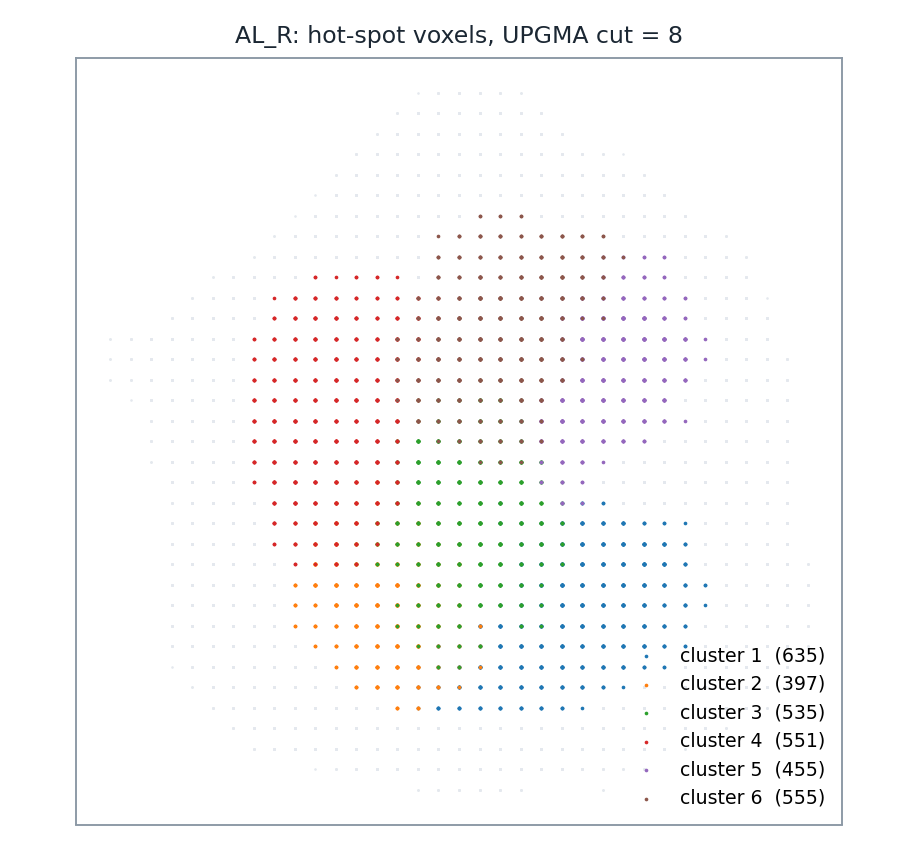
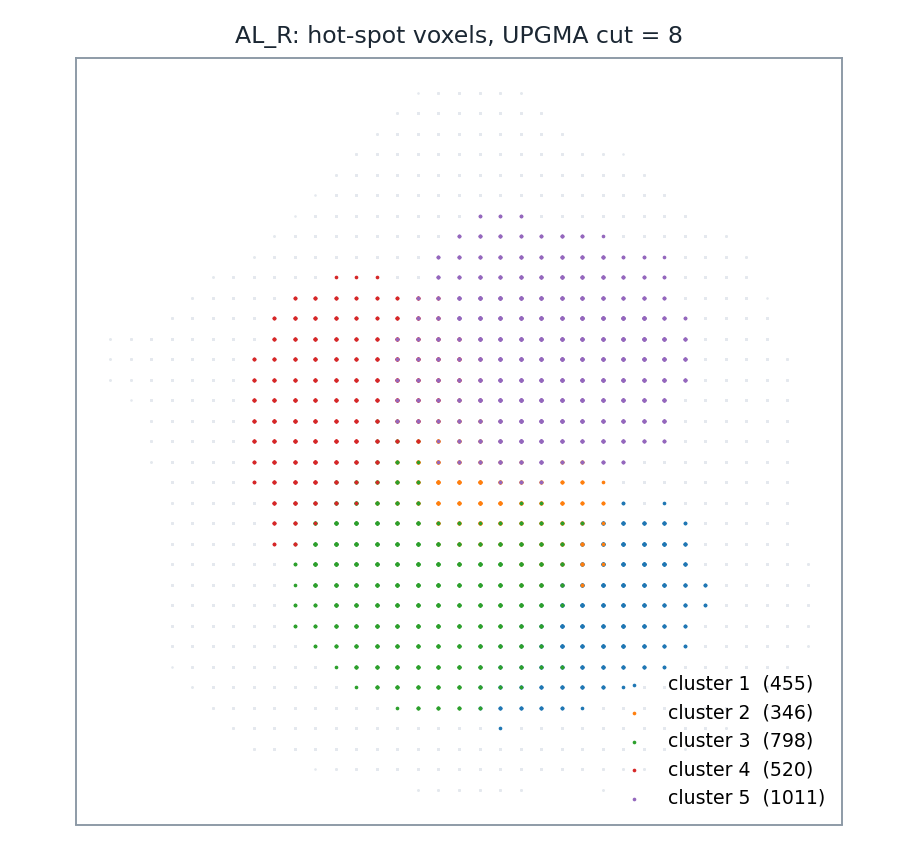
PART 2 的密度場改用相異神經元數重算，並把已解決的問題標到頁面上
一、定義統一。make_part2_figures.py 的 field_of() 加上去重（同一顆神經元
   在同一個分析格只算一次），與 part5/lpu_lib.py 的 density_field() 一致。
   六張 p2-*.png 全部重產，seed_check.py 沿用它。PART 2 到 PART 5 現在用的
   是同一個 v(r)，數字可以逐項對照。

二、PART 2 整頁重算：五數綜合 0.6/36.4/64.9/94.7/142.8、熱點 3,130、
   相異距離值 557、高度 8 分成五群（346/455/520/798/1,011）、規則 ② 到
   高度 7 以後才不再刷人、單一連結在 h=1.0 就併成一塊、種子表 4.5%/23.6%。
   與 part4/out、part5/out 逐項相同。切割高度 14–20 的平台
   1／1–2／2／1–2／2–3／2 一個都沒變——換定義只動絕對值，不動判定。

三、Spearman 從 0.993 改成 0.998。舊數字算的是未平滑的計數場，而實際使用的
   v(r) 是 3×3×3 平滑後的場；兩處都補上「比的是哪個量、哪個集合」。

四、已解決的不要只留「抓到問題」。新增 .fixed 綠框：PART 4 成績單第 4 列改成
   「抓到問題（已修正）」、〈發現二〉標題加「（已修正）」並寫明改了哪個函式、
   指令 4 補上兩頁都已更正、指令 1 的軸序警語補上「指令 14 那張全腦圖就是
   照這張表畫的」。

五、三處過期的交叉引用：PART 3 指令 8 正文寫 35.8% 但同頁驗收表是 23.6%；
   PART 1 寫「那正是 PART 3 要做的事」而連結指向 python-lpu.html；
   PART 2 頁尾仍寫「PART 5 是不靠 AI 自己寫程式做一次」。

Claude-Session: https://claude.ai/code/session_01RAcUKXRmkFUmNphKnPaYea

diff --git a/how-to-draw-lpu.html b/how-to-draw-lpu.html
@@ -342,7 +342,8 @@
     <p>· 正文的七步驟條列第 (1) 步：<i>calculating the number of <b>counts</b> passing through a voxel by <b>populations of LNs</b></i>（數「LN 族群穿過該體素的次數」）</p>
     <p>· 補充材料〈Defining an LPU〉：<i>the number of <b>LN fibers</b> passing through the voxel</i>（穿過該體素的<b>纖維條數</b>）</p>
     <p>· 圖 S5D(b) 的圖說：<i>the number of <b>repetitive registrations</b> of every single voxel</i>（該體素被<b>重複註冊</b>的次數）</p>
-    <p style="margin-top:8px"><b>後兩者不是同一件事。</b>「一顆神經元的三條分枝都穿過同一個體素」在「纖維條數」算 3、在「重複註冊次數」算 1。<b>正文那句沒有裁決</b>——它只說「數次數」，沒說數的是纖維還是神經元。而從二值化的體素影像，你只做得到「重複註冊次數」那一個。</p><p><b>本頁那張 AL_R 密度圖數的是第三個量：每一筆（體素, 神經元）紀錄。</b>D06 的骨架體素邊長只有分析體素的四分之一，所以同一顆神經元會在同一個分析體素裡留下好幾筆——平均 <b>1.44 筆</b>——而那張圖把每一筆都加了一次。它比「重複註冊次數」一致地大一點：兩者的排序相關是 <b>0.993</b>、熱點集合重疊 <b>94%</b>，而下面〈STEP 3〉那個切割高度 14–20 的平台，兩種算法給出的值<b>完全相同</b>。<a href="agent-run.html">PART 4</a> 用的是「重複註冊次數」，所以那一頁的絕對數值與本頁不同（v(r) 最大值 206.6 對 142.8），但平台上的結論相同。</p>
+    <p style="margin-top:8px"><b>後兩者不是同一件事。</b>「一顆神經元的三條分枝都穿過同一個體素」在「纖維條數」算 3、在「重複註冊次數」算 1。<b>正文那句沒有裁決</b>——它只說「數次數」，沒說數的是纖維還是神經元。而從二值化的體素影像，你只做得到「重複註冊次數」那一個。</p><p><b>本頁採用的就是它：同一顆神經元在同一個分析體素裡，不論留下幾筆紀錄都只算一次。</b>換句話說，v(r) 是「有幾顆<b>不同的</b> LN 佔到這一格」。右觸角葉的 v(r) 因此最大 <b>142.8</b>、平均 <b>65.7</b>。<a href="agent-prompts.html">PART 3</a> 的指令、<a href="agent-run.html">PART 4</a> 的實跑、<a href="python-lpu.html">PART 5</a> 的程式（<code>lpu_lib.py</code> 的 <code>density_field()</code>）用的都是同一個定義，所以<b>四頁的數字可以逐項對照</b>。</p>
+    <p style="margin-top:8px"><b>換成另一種算法會差多少，量過了。</b>如果改成「每一筆（體素, 神經元）紀錄都加 1」——D06 的骨架體素邊長只有分析體素的四分之一，同一顆神經元平均會在同一格留下 <b>1.44 筆</b>——v(r) 的最大值會從 142.8 變成 206.6。但在右觸角葉區內 12,511 個分析體素上，兩者的<b>排序相關是 0.998</b>、<b>熱點集合重疊 94%</b>（交集除以聯集），而下面〈STEP 3〉那個切割高度 14–20 的平台，兩種算法給出的值<b>完全相同</b>。<b>絕對值會變，判定不會。</b></p>
   </div>
 
   <h2 id="s2"><span class="pt">STEP 2</span>取上四分位，留下熱點</h2>
@@ -357,15 +358,15 @@
   <div class="plain"><b>白話。</b>像把一張地形圖只保留最高的四分之一——低窪處全部抹平，剩下的山頭才是後面要分群的對象。
     <p style="margin-top:6px"><b>上四分位</b>就是把所有數字由小排到大之後，位在 <b>75%</b> 那個位置的值。有些書叫它「第三四分位」或 <code>Q3</code>，是同一個東西；<b>本頁一律用「上四分位」</b>，因為論文用的是 <i>upper quartile</i>（<code>Q<sub>U</sub></code>）。</p></div>
 
-  <p><b>論文沒有說明為什麼選四分位</b>，不過用四分位而不是一個固定的數字，效果是看得見的：門檻是<b>每個腦區各自算的</b>，所以不論哪一區、LN 有多少顆，都恰好留下自己最密的四分之一。我們在六個腦區上實測，留下的比例是 25.0%–25.2%——這是四分位的定義使然，不是巧合。</p>
+  <p><b>論文沒有說明為什麼選四分位</b>，不過用四分位而不是一個固定的數字，效果是看得見的：門檻是<b>每個腦區各自算的</b>，所以不論哪一區、LN 有多少顆，都恰好留下自己最密的四分之一。我們在六個腦區上實測，留下的比例是 25.0%–25.1%——這是四分位的定義使然，不是巧合。</p>
 
   <div class="note">
     <b>但這也是它的代價。</b>因為比例是固定的，<b>「這個腦區到底夠不夠密」這件事，在這一步就被抹掉了</b>。一個 LN 很少的腦區，照樣會被留下 25% 的體素當熱點，然後照樣進入 STEP 3 分群。真正把它擋下來的是後面的 c 值與神經束，不是這一步。
   </div>
 
   <figure class="fig">
-    <img src="assets/p2-fivenum.png" alt="直方圖：右側觸角葉內所有體素的密度值分布，標出下四分位 51.4、中位數 92.9、上四分位 136.5，上四分位右側區域以紅色淡底標示為熱點。">
-    <figcaption><b>右側觸角葉的真實分布。</b>五數綜合是 0.6 ／ 51.4 ／ 92.9 ／ <b>136.5</b> ／ 206.6。紅線是上四分位 <code>Q<sub>U</sub></code> ＝ 136.5，右邊那塊淡紅色區域就是熱點集合 Z。
+    <img src="assets/p2-fivenum.png" alt="直方圖：右側觸角葉內所有體素的密度值分布，標出下四分位 36.4、中位數 64.9、上四分位 94.7，上四分位右側區域以紅色淡底標示為熱點。">
+    <figcaption><b>右側觸角葉的真實分布。</b>五數綜合是 0.6 ／ 36.4 ／ 64.9 ／ <b>94.7</b> ／ 142.8。紅線是上四分位 <code>Q<sub>U</sub></code> ＝ 94.7，右邊那塊淡紅色區域就是熱點集合 Z。
     <span class="figsrc">由 <code>scripts/make_part2_figures.py</code> 算出。</span></figcaption>
   </figure>
 
@@ -391,7 +392,7 @@
   </div>
 
   <div class="note">
-    <b>規則 ② 的分母是整個 neuropil，不是熱點。</b>這一點很容易寫錯。以右觸角葉為例：腦區內共 12,511 個分析體素，1% 就是 <b>125 個</b>；而熱點（STEP 2 留下的那 25%）只有 3,128 個。<b>所以門檻雖然寫成「1%」，實際上是要求一群佔掉熱點的 4%。</b>把分母誤寫成熱點數，門檻會鬆四倍。
+    <b>規則 ② 的分母是整個 neuropil，不是熱點。</b>這一點很容易寫錯。以右觸角葉為例：腦區內共 12,511 個分析體素，1% 就是 <b>125 個</b>；而熱點（STEP 2 留下的那 25%）只有 3,130 個。<b>所以門檻雖然寫成「1%」，實際上是要求一群佔掉熱點的 4%。</b>把分母誤寫成熱點數，門檻會鬆四倍。
   </div>
 
   <div class="callout">
@@ -405,13 +406,13 @@
 
   <div class="tblwrap"><table>
     <tr><th>右觸角葉的熱點</th><th></th></tr>
-    <tr><td>體素數</td><td>3,128</td></tr>
-    <tr><td>配對數（距離矩陣的長度）</td><td>4,890,628</td></tr>
-    <tr><td><b>相異的距離值</b></td><td><b>573</b></td></tr>
-    <tr><td>平均每個距離值被幾對共用</td><td>8,535</td></tr>
+    <tr><td>體素數</td><td>3,130</td></tr>
+    <tr><td>配對數（距離矩陣的長度）</td><td>4,896,885</td></tr>
+    <tr><td><b>相異的距離值</b></td><td><b>557</b></td></tr>
+    <tr><td>平均每個距離值被幾對共用</td><td>8,792</td></tr>
   </table></div>
 
-  <div class="plain"><b>白話。</b>489 萬對體素，只有 573 種不同的距離。<b>平均每一種距離都有八千多對並列。</b>光是「距離剛好等於 1」（正上下左右相鄰）的就有 8,339 對。
+  <div class="plain"><b>白話。</b>490 萬對體素，只有 557 種不同的距離。<b>平均每一種距離都有八千多對並列。</b>光是「距離剛好等於 1」（正上下左右相鄰）的就有 8,363 對。
     <p style="margin-top:6px"><b>先記著這件事。</b>分群演算法每一步都要挑「最近的一對」，而這裡有成千上萬對並列第一——下面〈<b>平手的時候，UPGMA 挑誰？</b>〉會看到它造成什麼後果。</p></div>
 
   <p>再用 <b>UPGMA</b>（unweighted pair group method with arithmetic mean，中譯「不加權平均連結法」）把體素分群（<b>規則 ①</b>），再把體素數不到該 neuropil 總體素 1% 的群丟掉（<b>規則 ②</b>），剩下的才算候選 LPU。</p>
@@ -420,14 +421,14 @@
 
   <div class="note">
     <b>「高度」是距離，不是次數。</b>樹的高度軸量的是「這兩群<b>當時的距離</b>」——每一次合併都畫在它發生時的那個距離上。所以<b>剪在高度 8</b> 的意思是：<b>把所有「距離 ≤ 8 時才發生」的合併都保留，比 8 高的合併全部不做。</b>
-    <p style="margin-top:8px">它<b>不是</b>「合併 8 次」。以右觸角葉為例，3,128 個熱點體素要全部併完需要 <b>3,127 次</b>合併；剪在高度 8，實際上已經做掉 <b>3,122 次</b>，只剩下 6 群。而第 8 次合併發生在高度 <b>1.00</b>——離 8 還很遠。</p>
+    <p style="margin-top:8px">它<b>不是</b>「合併 8 次」。以右觸角葉為例，3,130 個熱點體素要全部併完需要 <b>3,129 次</b>合併；剪在高度 8，實際上已經做掉 <b>3,125 次</b>，只剩下 5 群。而第 8 次合併發生在高度 <b>1.00</b>——離 8 還很遠。</p>
     <div class="tblwrap"><table>
       <tr><th>切割高度</th><th>已經做掉的合併次數</th><th>剩下的群數</th></tr>
-      <tr><td>1</td><td>1,509</td><td>1,619</td></tr>
-      <tr><td>2</td><td>2,776</td><td>352</td></tr>
-      <tr><td>4</td><td>3,078</td><td>50</td></tr>
-      <tr><td><b>8</b></td><td><b>3,122</b></td><td><b>6</b></td></tr>
-      <tr><td>14</td><td>3,127<span style="color:var(--faint)">（全部）</span></td><td>1</td></tr>
+      <tr><td>1</td><td>1,517</td><td>1,613</td></tr>
+      <tr><td>2</td><td>2,770</td><td>360</td></tr>
+      <tr><td>4</td><td>3,080</td><td>50</td></tr>
+      <tr><td><b>8</b></td><td><b>3,125</b></td><td><b>5</b></td></tr>
+      <tr><td>14</td><td>3,129<span style="color:var(--faint)">（全部）</span></td><td>1</td></tr>
     </table></div>
     <p style="margin-top:8px">高度的單位就是體素——這裡是<b>分析體素</b>（4×4×4 個原本的體素併成一個）。所以「高度 8」大致是「兩群的平均距離在 8 個分析體素以內」。</p>
   </div>
@@ -438,22 +439,22 @@
 
   <div class="tblwrap"><table>
     <tr><th>切割高度</th><th>規則 ① 剪出的群數</th><th>規則 ② 通過的群數<br><span style="font-weight:400;color:var(--faint)">（＝候選 LPU）</span></th><th>最大的一群有多少體素<br><span style="font-weight:400;color:var(--faint)">（門檻是 125）</span></th></tr>
-    <tr><td><b>4</b></td><td><b>50</b></td><td><b>0</b></td><td>116　<span style="color:var(--red)">← 連最大的都不到 125</span></td></tr>
-    <tr><td>5</td><td>26</td><td>12</td><td>195</td></tr>
-    <tr><td>6</td><td>12</td><td>12</td><td>397</td></tr>
-    <tr><td>8</td><td>6</td><td>6</td><td>635</td></tr>
-    <tr><td>10</td><td>3</td><td>3</td><td>1,567</td></tr>
-    <tr><td>14</td><td>1</td><td>1</td><td>3,128</td></tr>
+    <tr><td><b>4</b></td><td><b>50</b></td><td><b>0</b></td><td>114　<span style="color:var(--red)">← 連最大的都不到 125</span></td></tr>
+    <tr><td>5</td><td>28</td><td>9</td><td>185</td></tr>
+    <tr><td>6</td><td>16</td><td>14</td><td>299</td></tr>
+    <tr><td>8</td><td>5</td><td>5</td><td>1,011</td></tr>
+    <tr><td>10</td><td>4</td><td>4</td><td>1,144</td></tr>
+    <tr><td>14</td><td>1</td><td>1</td><td>3,130</td></tr>
   </table></div>
 
   <div class="plain">
     <b>看第一列。</b>切割高度 4 的時候，樹其實剪出了 <b>50 群</b>——但每一群都太小，<b>一群都沒過</b>，答案是 0。<b>那個 0 不是「分不出群」，是「分出太多群、每一群都不夠大」。</b>
-    <p style="margin-top:8px">高度 5 是兩條規則同時在起作用的唯一一段：剪出 26 群，只有 12 群過關，被丟掉的體素佔了熱點的 41%。<b>高度 6 以後規則 ② 就不再刷掉任何東西了</b>——群夠大，全部通過，答案完全由規則 ① 決定。</p>
+    <p style="margin-top:8px">高度 5、6 是兩條規則同時在起作用的一段：高度 5 剪出 28 群、只有 9 群過關，被丟掉的體素佔了熱點的 56%；高度 6 剪出 16 群、過 14 群。<b>高度 7 以後規則 ② 就不再刷掉任何東西了</b>——群夠大，全部通過，答案完全由規則 ① 決定。</p>
   </div>
 
   <div class="danger">
     <b>平手的時候，UPGMA 挑誰？</b>它每一步要挑「平均距離最近」的兩群併起來。既然有八千多對並列第一，<b>就得有人決定挑哪一對</b>——而演算法本身沒有規定。<code>scipy</code> 的作法是挑索引最小的那一對，也就是<b>按你把體素餵進去的順序</b>。
-    <p style="margin-top:8px">這不是無關痛癢的細節。<b>把同一批體素打亂順序重跑，答案就變</b>：右觸角葉在切割高度 6，九次打亂給出的是 12、13、13、13、13、14、14、14、16——<b>從 12 到 16 都有</b>。同一份資料、同一個參數，只有列的順序不同。</p>
+    <p style="margin-top:8px">這不是無關痛癢的細節。<b>把同一批體素打亂順序重跑，答案就變</b>：右觸角葉在切割高度 6，九次打亂給出的是 13、13、13、14、14、14、15、15、15——<b>從 13 到 15 都有</b>。同一份資料、同一個參數，只有列的順序不同。</p>
   </div>
 
   <div class="note">
@@ -539,23 +540,22 @@
 
   <h4>那為什麼不乾脆用單一連結</h4>
 
-  <p>因為它在這裡<b>什麼都分不出來</b>。熱點體素排在格點上，彼此正好相鄰（距離 ＝ 1）。只要允許「相鄰就連起來」，<b>3,128 個熱點體素裡有 3,127 個立刻串成一整塊</b>。</p>
+  <p>因為它在這裡<b>什麼都分不出來</b>。熱點體素排在格點上，彼此正好相鄰（距離 ＝ 1）。只要允許「相鄰就連起來」，<b>3,130 個熱點體素立刻全部串成一整塊</b>。</p>
 
   <div class="tblwrap"><table>
     <tr><th>切割高度</th><th>單一連結給出的群數</th></tr>
-    <tr><td>0.9（連相鄰都不算）</td><td>3,128　<span style="color:var(--faint)">← 每個體素自成一群</span></td></tr>
-    <tr><td>1.0</td><td>2</td></tr>
-    <tr><td>1.5 以上</td><td><b>1</b></td></tr>
+    <tr><td>0.9（連相鄰都不算）</td><td>3,130　<span style="color:var(--faint)">← 每個體素自成一群</span></td></tr>
+    <tr><td>1.0 以上</td><td><b>1</b></td></tr>
   </table></div>
 
   <div class="danger">
-    <b>從 3,128 直接掉到 1，中間沒有任何可用的區間。</b>這是單一連結有名的毛病：只要有一串體素把兩塊接起來，那兩塊就被判成同一群——而在密實的體素格點上，這種「橋」到處都是。
+    <b>從 3,130 直接掉到 1，中間沒有任何可用的區間。</b>這是單一連結有名的毛病：只要有一串體素把兩塊接起來，那兩塊就被判成同一群——而在密實的體素格點上，這種「橋」到處都是。
     <p style="margin-top:8px"><b>結論：單一連結可重現，但沒有分辨力；平均連結有分辨力，但答案受順序影響。</b>論文選了後者，所以就得面對前面那個平手問題。</p>
   </div>
 
   <figure class="fig">
-    <img src="assets/p2-clusters.png" alt="散點圖：右側觸角葉的熱點體素在切割高度 8 時被分成六群，各以不同顏色標示，背景灰點是整個腦區的範圍。">
-    <figcaption><b>右側觸角葉的熱點體素，在切割高度 ＝ 8 時分成六群。</b>灰色是整個腦區的範圍，彩色是各群。<b>但這個「六」既取決於切割高度，也取決於體素的排列順序</b>——換一個高度會變，光是把體素打亂重跑，同樣在高度 8 也可能得到 5 或 7 群。
+    <img src="assets/p2-clusters.png" alt="散點圖：右側觸角葉的熱點體素在切割高度 8 時被分成五群，各以不同顏色標示，背景灰點是整個腦區的範圍。">
+    <figcaption><b>右側觸角葉的熱點體素，在切割高度 ＝ 8 時分成五群</b>（346、455、520、798、1,011 個體素）。灰色是整個腦區的範圍，彩色是各群。<b>但這個「五」既取決於切割高度，也取決於體素的排列順序</b>——換一個高度會變，光是把體素打亂重跑，同樣在高度 8 也可能得到 6 或 7 群。
     <span class="figsrc">由 <code>scripts/make_part2_figures.py</code> 算出。</span></figcaption>
   </figure>
 
@@ -566,23 +566,23 @@
   <p>這不是雞蛋裡挑骨頭。我們把六個腦區的切割高度從 4 掃到 25，看每個高度會得到幾個候選 LPU：</p>
 
   <figure class="fig">
-    <img src="assets/p2-cutheight.png" alt="折線圖：六個腦區在不同 UPGMA 切割高度下得到的候選 LPU 數量，每條線是九次打亂體素順序的中位數，外圍淡色帶是最小到最大。切割高度 5 到 6 之間帶最寬，最多相差 6 個；高度 14 以上帶幾乎閉合，22 以上全部給 1。">
-    <figcaption><b>橫軸是切割高度，縱軸是找到的候選 LPU 數。</b>每一個切割高度都把體素順序打亂重跑<b>九次</b>，得到九個答案；<b>實線是把這九個答案排序後取中間那一個</b>（第 5 個），淡色帶是最小到最大。跑九次（奇數）是為了讓中位數一定落在某一次真的跑出來的整數上。剪得太細（高度 4）時，樹其實剪出了幾十群，但沒有一群大得過規則 ② 的 1%，所以四個腦區的答案是 0（扇形體與前腦橋例外）；高度 5–6 衝到十幾個，<b>而且這裡的帶最寬——同一個高度光靠順序就能差 7 個</b>；高度 14 以上帶幾乎閉合；22 以上六個區都給 1，但那只是因為 22 已經高過每一棵樹的根（見下方「整棵樹的高度」那張表）。
+    <img src="assets/p2-cutheight.png" alt="折線圖：六個腦區在不同 UPGMA 切割高度下得到的候選 LPU 數量，每條線是九次打亂體素順序的中位數，外圍淡色帶是最小到最大。切割高度 5 到 6 之間帶最寬，最多相差 8 個；高度 14 以上帶幾乎閉合，22 以上全部給 1。">
+    <figcaption><b>橫軸是切割高度，縱軸是找到的候選 LPU 數。</b>每一個切割高度都把體素順序打亂重跑<b>九次</b>，得到九個答案；<b>實線是把這九個答案排序後取中間那一個</b>（第 5 個），淡色帶是最小到最大。跑九次（奇數）是為了讓中位數一定落在某一次真的跑出來的整數上。剪得太細（高度 4）時，樹其實剪出了幾十群，但沒有一群大得過規則 ② 的 1%，所以四個腦區的答案落在 0–1（扇形體與前腦橋例外，它們給 7–11）；高度 5–6 衝到十幾個，<b>而且這裡的帶最寬——同一個高度光靠順序就能差 8 個</b>；高度 14 以上帶幾乎閉合；22 以上六個區都給 1，但那只是因為 22 已經高過每一棵樹的根（見下方「整棵樹的高度」那張表）。
     <span class="figsrc">由 <code>scripts/make_part2_figures.py</code> 算出，資料同前。</span></figcaption>
   </figure>
 
   <div class="tblwrap"><table>
     <tr><th>腦區</th><th>LN 候選數</th><th>候選 LPU 數的範圍<br><span style="font-weight:400;color:var(--faint)">（高度 4–25 × 九次打亂）</span></th></tr>
-    <tr><td>AL_R（右觸角葉）</td><td>723</td><td>0 – 16</td></tr>
-    <tr><td>AL_L（左觸角葉）</td><td>780</td><td>0 – 15</td></tr>
-    <tr><td>AVLP_R</td><td>163</td><td>0 – 16</td></tr>
+    <tr><td>AL_R（右觸角葉）</td><td>723</td><td>0 – 15</td></tr>
+    <tr><td>AL_L（左觸角葉）</td><td>780</td><td>0 – 14</td></tr>
+    <tr><td>AVLP_R</td><td>163</td><td>0 – 14</td></tr>
     <tr><td>AVLP_L</td><td>270</td><td>0 – 16</td></tr>
-    <tr><td>FB（扇形體）</td><td>1,354</td><td>1 – 14</td></tr>
+    <tr><td>FB（扇形體）</td><td>1,354</td><td>1 – 16</td></tr>
     <tr><td>PB（前腦橋）</td><td>106</td><td>1 – 11</td></tr>
   </table></div>
 
   <div class="danger">
-    <b>同一個觸角葉，可以被判成 0 個、1 個，也可以被判成 16 個。</b>差別只在規則 ① 剪在哪裡、以及體素用什麼順序排（0 那個是規則 ② 把 50 群全刷掉的結果）。
+    <b>同一個觸角葉，可以被判成 0 個、1 個，也可以被判成 15 個。</b>差別只在規則 ① 剪在哪裡、以及體素用什麼順序排（0 那個是規則 ② 把 50 群全刷掉的結果）。
     <p style="margin-top:8px">曲線中段確實有平台，但<b>每個腦區的平台高度不一樣</b>。切割高度 14 到 20 這一段是最穩的：</p>
     <div class="tblwrap"><table>
       <tr><th>切割高度 14–20</th><th>AL_R</th><th>AL_L</th><th>AVLP_R</th><th>AVLP_L</th><th>FB</th><th>PB</th></tr>
@@ -600,7 +600,7 @@
     <p style="margin-top:8px"><b>而右邊那段「全部收斂到 1」根本不是結論。</b>每一棵樹都有一個最高點——根，也就是最後一次合併的高度。剪在根以上，當然只剩一群：</p>
     <div class="tblwrap"><table>
       <tr><th>腦區</th><th>AL_R</th><th>AL_L</th><th>AVLP_R</th><th>AVLP_L</th><th>FB</th><th>PB</th></tr>
-      <tr><td>整棵樹的高度（根）</td><td>13.1</td><td>13.7</td><td>21.2</td><td>19.4</td><td>22.0</td><td>20.8</td></tr>
+      <tr><td>整棵樹的高度（根）</td><td>13.1</td><td>13.5</td><td>21.2</td><td>19.4</td><td>21.9</td><td>20.8</td></tr>
     </table></div>
     <p style="margin-top:8px">六棵樹的根都在 22 以下。<b>所以「高度 22 以上六個區都給 1」只是「22 超過了每一棵樹的頂端」</b>——那是算術，不是資料在告訴你這六個區各是一個 LPU。</p>
   </div>
@@ -610,7 +610,7 @@
   </div>
 
   <div class="danger">
-    <b>順帶一個工程上的警告。</b>距離矩陣是 <b>N(N−1)/2</b> 個數字。上面掃描過的那六個腦區，熱點是 <b>456（PB）到 4,006（AVLP_L）</b>個體素，還算得動；但如果你用更細的體素、或處理視葉那種大區域，熱點很容易到十萬個——那就是 <b>50 億個距離</b>，而 <code>scipy</code> 的 <code>pdist</code> 回傳 float64，等於 <b>37 GB</b>（就算改成 float32 也還要 19 GB）。動手前先算一次規模。
+    <b>順帶一個工程上的警告。</b>距離矩陣是 <b>N(N−1)/2</b> 個數字。上面掃描過的那六個腦區，熱點是 <b>457（PB）到 4,012（AVLP_L）</b>個體素，還算得動；但如果你用更細的體素、或處理視葉那種大區域，熱點很容易到十萬個——那就是 <b>50 億個距離</b>，而 <code>scipy</code> 的 <code>pdist</code> 回傳 float64，等於 <b>37 GB</b>（就算改成 float32 也還要 19 GB）。動手前先算一次規模。
   </div>
 
   <h2 id="s4"><span class="pt">STEP 4</span>從一顆 LN 開始滾雪球</h2>
@@ -775,11 +775,11 @@
     <p><b>六、種子的條件挑不挑得出人，要看腦區。</b>論文寫「<i>a smallest LN with its fibers <b>restricted within</b> the smallest candidate LPU</i>」——纖維要<b>完全侷限在</b>那個候選 LPU 之內。在右觸角葉、切割高度 8 分出來的那幾群上，照字面一顆都挑不到：</p>
     <div class="tblwrap"><table>
       <tr><th>右觸角葉 723 顆 LN 候選，各有多少比例的體素落在……</th><th>中位數</th><th>最大值</th><th>達到 100% 的</th></tr>
-      <tr><td>最小的那一群（切割高度 8，397 個體素）</td><td>4.8%</td><td>35.8%</td><td><b>0 顆</b></td></tr>
-      <tr><td>全部熱點體素（六群加起來）</td><td>39.1%</td><td>76.5%</td><td><b>0 顆</b></td></tr>
+      <tr><td>最小的那一群（切割高度 8，346 個體素）</td><td>4.5%</td><td>23.6%</td><td><b>0 顆</b></td></tr>
+      <tr><td>全部熱點體素（五群加起來）</td><td>39.6%</td><td>77.2%</td><td><b>0 顆</b></td></tr>
       <tr><td>整個右觸角葉</td><td>92.1%</td><td>99.5%</td><td><b>0 顆</b></td></tr>
     </table></div>
-    <p style="margin-top:8px"><b>照字面找，一顆都找不到</b>——最接近的那顆也只有 35.8% 的體素落在最小那一群裡。把該群膨脹兩格再填洞放寬，最好的一顆升到 50.9%，達到 100% 的<b>還是 0 顆</b>（<code>scripts/seed_check.py</code>）。<b>要讓這一步跑起來，只能改成「有一部分落在裡面就算」，而「一部分」是多少，論文沒有給。</b></p>
+    <p style="margin-top:8px"><b>照字面找，一顆都找不到</b>——最接近的那顆也只有 23.6% 的體素落在最小那一群裡。把該群膨脹兩格再填洞放寬，最好的一顆升到 46.9%，達到 100% 的<b>還是 0 顆</b>（<code>scripts/seed_check.py</code>）。<b>要讓這一步跑起來，只能改成「有一部分落在裡面就算」，而「一部分」是多少，論文沒有給。</b></p>
     <p style="margin-top:8px"><b>但換一個腦區，這個條件就成立了。</b>在 AVLP_R、切割高度取平台上的 17 時，最大的那一群裡有五顆 LN 的體素<b>有 97% 以上</b>落在群內，最高的一顆是 <b>99.1%</b>（該顆共 112 個分析體素，不是小到失真的個案）。<b>所以「挑不到合格的種子」是右觸角葉這個腦區的性質，不是這個條件本身的性質。</b>真正沒有給的是另一件事：<b>當一個腦區挑不出人時該怎麼辦。</b></p>
     <p style="margin-top:8px">再加上論文明寫這一顆是<b>目視</b>決定的——這是整條流程唯一寫明要人介入的一步，而<b>換一顆種子，招募出來的結果可能不同</b>。</p>
   </div>
@@ -1011,9 +1011,9 @@
 
   <div class="tblwrap"><table>
     <tr><th style="width:20%">在哪一步</th><th style="width:30%">缺什麼</th><th>影響</th></tr>
-    <tr><td>STEP 3</td><td><b>UPGMA 樹的切割高度</b></td><td>直接決定找到幾個候選 LPU。同一個右觸角葉可以是 1 個，也可以是 16 個</td></tr>
+    <tr><td>STEP 3</td><td><b>UPGMA 樹的切割高度</b></td><td>直接決定找到幾個候選 LPU。同一個右觸角葉可以是 1 個，也可以是 15 個</td></tr>
     <tr><td>STEP 5</td><td><b>等值面的門檻</b></td><td>決定候選 LPU 的體積，連帶影響 c 值</td></tr>
-    <tr><td>STEP 4</td><td><b>起始種子怎麼挑</b></td><td>論文的條件「纖維完全侷限在該候選 LPU 內」<b>在右觸角葉上</b>按字面挑不出任何一顆（最接近的只有 35.8% 落在裡面），<b>在 AVLP_R 上卻挑得到</b>（最高 99.1%）——論文沒有寫「挑不出人的時候該怎麼辦」。放寬成「有一部分在裡面」則沒給比例。而且它明寫是目視決定的——換一顆種子，招募結果可能不同</td></tr>
+    <tr><td>STEP 4</td><td><b>起始種子怎麼挑</b></td><td>論文的條件「纖維完全侷限在該候選 LPU 內」<b>在右觸角葉上</b>按字面挑不出任何一顆（最接近的只有 23.6% 落在裡面），<b>在 AVLP_R 上卻挑得到</b>（最高 99.1%）——論文沒有寫「挑不出人的時候該怎麼辦」。放寬成「有一部分在裡面」則沒給比例。而且它明寫是目視決定的——換一顆種子，招募結果可能不同</td></tr>
   </table></div>
 
   <h3>五個定義上的含糊</h3>
@@ -1023,7 +1023,7 @@
     <tr><td>STEP 1</td><td><b>v(r) 是數纖維條數，還是數重疊的神經元數</b></td><td>補充材料與圖 S5D 的說法不同。從二值化影像只做得到後者</td></tr>
     <tr><td><b>STEP 4</b></td><td><b>招募的靶是滾雪球的種子，還是分群本身</b></td><td>補充材料寫「收進來的併成新的種子」（靶愈滾愈大），圖 S5D(e) 的圖說寫 <i>recruited based on the coverage of the two clusters</i>（靶就是分群，固定不動）。兩處不一致，而<b>選哪一種決定這一步跑不跑得動</b>——滾雪球那一種在三個腦區、368 組參數下沒有一組收到中間結果</td></tr>
     <tr><td>STEP 4</td><td><b>膨脹的細節：50% 的分母、撐大多少</b></td><td>論文寫 <i>all voxel units enlarged</i>（兩邊都撐大），但沒說 <i>50% of its volume</i> 的分母是 target 撐大前還是撐大後——差別大到其中一種讀法會算出超過 1 的比例；「4 倍」是每方向還是體積也沒說（差 16 倍），而格點上撐大 1 格體積就已經是 6.2 倍</td></tr>
-    <tr><td>STEP 3</td><td><b>UPGMA 平手時挑哪一對</b></td><td>體素在規則格點上，距離大量重複（489 萬對只有 573 種值）。演算法沒有規定，實作按輸入順序挑；打亂順序，同一個高度的答案可差 7 個</td></tr>
+    <tr><td>STEP 3</td><td><b>UPGMA 平手時挑哪一對</b></td><td>體素在規則格點上，距離大量重複（490 萬對只有 557 種值）。演算法沒有規定，實作按輸入順序挑；打亂順序，同一個高度的答案可差 8 個</td></tr>
     <tr><td>STEP 7</td><td><b>神經束的節點是 LPU 還是 neuropil</b></td><td>正文寫 LPU（會造成循環），補充材料的演算法寫 neuropil（不會）。兩處不一致，論文沒有裁決</td></tr>
   </table></div>
 
@@ -1042,7 +1042,7 @@
   </div>
 
   <div class="note">
-    看完了怎麼算，下一步是自己動手算一次。<b>上面那六張真實資料的圖，其實就是 STEP 0 到 STEP 3 的產出</b>——程式在 <code>scripts/make_part2_figures.py</code>。<a href="agent-prompts.html">PART 3</a> 會把這條流程拆成一串交給 AI Agent 的指令，<a href="agent-run.html">PART 4</a> 真的讓它跑一遍，<a href="python-lpu.html">PART 5</a> 則是不靠 AI、自己寫程式做一次。<b>那十個要自己決定的地方，三者都躲不掉。</b>
+    看完了怎麼算，下一步是自己動手算一次。<b>上面那六張真實資料的圖，其實就是 STEP 0 到 STEP 3 的產出</b>——程式在 <code>scripts/make_part2_figures.py</code>。<a href="agent-prompts.html">PART 3</a> 會把這條流程拆成一串交給 AI Agent 的指令，<a href="agent-run.html">PART 4</a> 真的讓它跑一遍，<a href="python-lpu.html">PART 5</a> 則回頭讀懂 AI 寫出來的那份程式。<b>那十個要自己決定的地方，三者都躲不掉。</b>
   </div>
 
   <div class="pager">

diff --git a/agent-prompts.html b/agent-prompts.html
@@ -492,7 +492,7 @@ fibers restricted within the smallest candidate LPU）。
   <h4>為什麼這樣寫</h4>
   <p><b>這一條的寫法跟其他條都不一樣：先叫 AI 照字面做，做不到才給替代方案。</b></p>
 
-  <p>原因是<b>這個條件成不成立，要看腦區</b>。在右觸角葉上照字面一顆都挑不到——最接近的那顆也只有 <a href="how-to-draw-lpu.html#s4">35.8%</a> 的體素落在最小那一群裡。但同樣一條規則換到 AVLP_R 就挑得到：最大的那一群裡有五顆的比例超過 97%，最高一顆是 <b>99.1%</b>。<b>所以指令不能寫死「一定挑不到」，要寫成「先試，挑不到再換」——那個「挑不到的時候該怎麼辦」才是論文真正沒有交代的地方。</b></p>
+  <p>原因是<b>這個條件成不成立，要看腦區</b>。在右觸角葉上照字面一顆都挑不到——最接近的那顆也只有 <a href="how-to-draw-lpu.html#s4">23.6%</a> 的體素落在最小那一群裡。但同樣一條規則換到 AVLP_R 就挑得到：最大的那一群裡有五顆的比例超過 97%，最高一顆是 <b>99.1%</b>。<b>所以指令不能寫死「一定挑不到」，要寫成「先試，挑不到再換」——那個「挑不到的時候該怎麼辦」才是論文真正沒有交代的地方。</b></p>
 
   <p><b>如果直接給替代規則，讀者會以為那就是論文的作法。</b>先撞一次牆，才看得出來「這裡有一個必須自己補的洞」。這也是為什麼要它<b>在報告裡標明是替代規則</b>——PART 4 的產出裡，這種自己加的規則必須跟論文的步驟分得開。</p>
 

diff --git a/what-is-lpu.html b/what-is-lpu.html
@@ -273,7 +273,7 @@
 
   <h3>這裡本來應該放一張全腦 41 個 LPU 的圖</h3>
 
-  <p>但那張圖只存在於論文裡，版權屬於出版社，不能放在這個公開網頁上。更根本的問題是：<b>我們手上沒有可以直接使用的 LPU 分區檔。</b>論文摘要說 FlyCircuit 提供全腦 LPU 的三維視覺化，但那是網站上的呈現；本機的 FlyCircuit 資料裡沒有 LPU 的分區檔，也沒有找到可下載的版本。要有一張自己的 LPU 圖，就得把論文的劃分流程重跑一次——那正是 <a href="python-lpu.html">PART 3</a> 要做的事。</p>
+  <p>但那張圖只存在於論文裡，版權屬於出版社，不能放在這個公開網頁上。更根本的問題是：<b>我們手上沒有可以直接使用的 LPU 分區檔。</b>論文摘要說 FlyCircuit 提供全腦 LPU 的三維視覺化，但那是網站上的呈現；本機的 FlyCircuit 資料裡沒有 LPU 的分區檔，也沒有找到可下載的版本。要有一張自己的 LPU 圖，就得把論文的劃分流程重跑一次——<b>後面四個 PART 就是在做這件事</b>：<a href="agent-run.html">PART 4</a> 最後那張全腦判定圖是我們自己算出來的結果（75 區裡 8 區判成單一 LPU、13 區多個候選、48 區 hub、6 區兩者皆非）。<b>它與論文的 41 個 LPU 對不起來，那正是這條流程有多少空缺的證據。</b></p>
 
   <p>所以這裡先放一張<b>替身圖</b>。它不是 LPU，是今天通行的解剖學分區：</p>
 

diff --git a/assets/lpu.css b/assets/lpu.css
@@ -77,6 +77,8 @@ th{background:var(--panel); font-weight:700}
 .callout{background:#fffbeb; border:1px solid #fde68a; border-left:4px solid var(--amber); border-radius:0 8px 8px 0; padding:12px 16px; margin:18px 0; font-size:15px}
 .note{background:var(--accent-soft); border:1px solid #c7dbff; border-radius:8px; padding:12px 16px; margin:18px 0; font-size:15px}
 .danger{background:#fef2f2; border:1px solid #fecaca; border-left:4px solid var(--red); border-radius:0 8px 8px 0; padding:12px 16px; margin:18px 0; font-size:15px}
+.fixed{background:rgba(34,197,94,.07); border:1px solid #bbf7d0; border-left:4px solid var(--green); border-radius:0 8px 8px 0; padding:12px 16px; margin:18px 0; font-size:15px}
+.fixed b{color:#15803d}
 .draft{background:#f5f3ff; border:1px solid #ddd6fe; border-left:4px solid var(--purple); border-radius:0 8px 8px 0; padding:12px 16px; margin:22px 0; font-size:15px}
 
 .crumb{max-width:var(--maxw); margin:0 auto; padding:20px 22px 0; font-size:14px; color:var(--faint)}

diff --git a/scripts/make_part2_figures.py b/scripts/make_part2_figures.py
@@ -63,7 +63,14 @@ def ln_of(region, *_):
 
 
 def field_of(region, lab, name2id, rows, vox, nid, n2l):
-    """回傳 (遮罩, 平滑後的 v(r), LN 候選數)。"""
+    """回傳 (遮罩, 平滑後的 v(r), LN 候選數)。
+
+    v(r) 的定義是「有幾顆不同的 LN 佔到這一格」——同一顆神經元在同一個分析
+    體素裡不論留下幾筆 2 µm 紀錄都只算一次（那個 np.unique 就是在做這件事）。
+    對應圖 S5D 圖說的 the number of repetitive registrations of every single
+    voxel；從二值化的體素影像也只做得到這一種。`part5/lpu_lib.py` 的
+    density_field() 算的是同一個量，所以本頁與 PART 4、PART 5 的數字可以直接對。
+    """
     sh = tuple(s // B + 1 for s in lab.shape)
     mask = np.zeros(sh, bool)
     zz, yy, xx = np.nonzero(lab == name2id[region])
@@ -71,9 +78,10 @@ def field_of(region, lab, name2id, rows, vox, nid, n2l):
     S = ln_of(region, rows, n2l)
     f = np.zeros(sh, np.float32)
     if S:
-        sel = np.isin(nid, S); v = vox[sel]
+        sel = np.isin(nid, S); v = vox[sel]; n = nid[sel]
         iz = (v // (GX * GY)) * 2 // B; iy = ((v // GX) % GY) * 2 // B; ix = (v % GX) * 2 // B
-        np.add.at(f, (iz, iy, ix), 1.0)
+        key = np.unique(np.stack([iz, iy, ix, n]).astype(np.int64), axis=1)
+        np.add.at(f, (key[0], key[1], key[2]), 1.0)
     return mask, ndimage.uniform_filter(f, size=3), len(S)
 
 

diff --git a/README.md b/README.md
@@ -33,6 +33,10 @@ doi:10.1016/j.cub.2010.11.056。
 **五個 PART 都已完成。** 所有圖都是用本機資料（D03 的 FCWBNP 分區標籤 ＋ D06 的
 28,573 顆骨架體素）自己算出來的真實結果，不重製論文原圖。
 
+**PART 2 到 PART 5 用的是同一個 v(r) 定義**（同一顆神經元在同一格只算一次，即圖 S5D 圖說的
+「重複註冊次數」），所以 PART 2 的圖、PART 3 的驗收表、PART 4 的實跑、PART 5 的程式
+可以逐項對照：右觸角葉 v(r) 最大 142.8、熱點 3,130 個分析體素、切割高度 8 分成五群。
+
 `part5/` 的管線可重跑：`./run_lpu.sh`，實測 170 秒、56 項驗收全過，
 判定為 8 區單一 LPU、13 區多個候選、48 區 hub、6 區兩者皆非。
 
